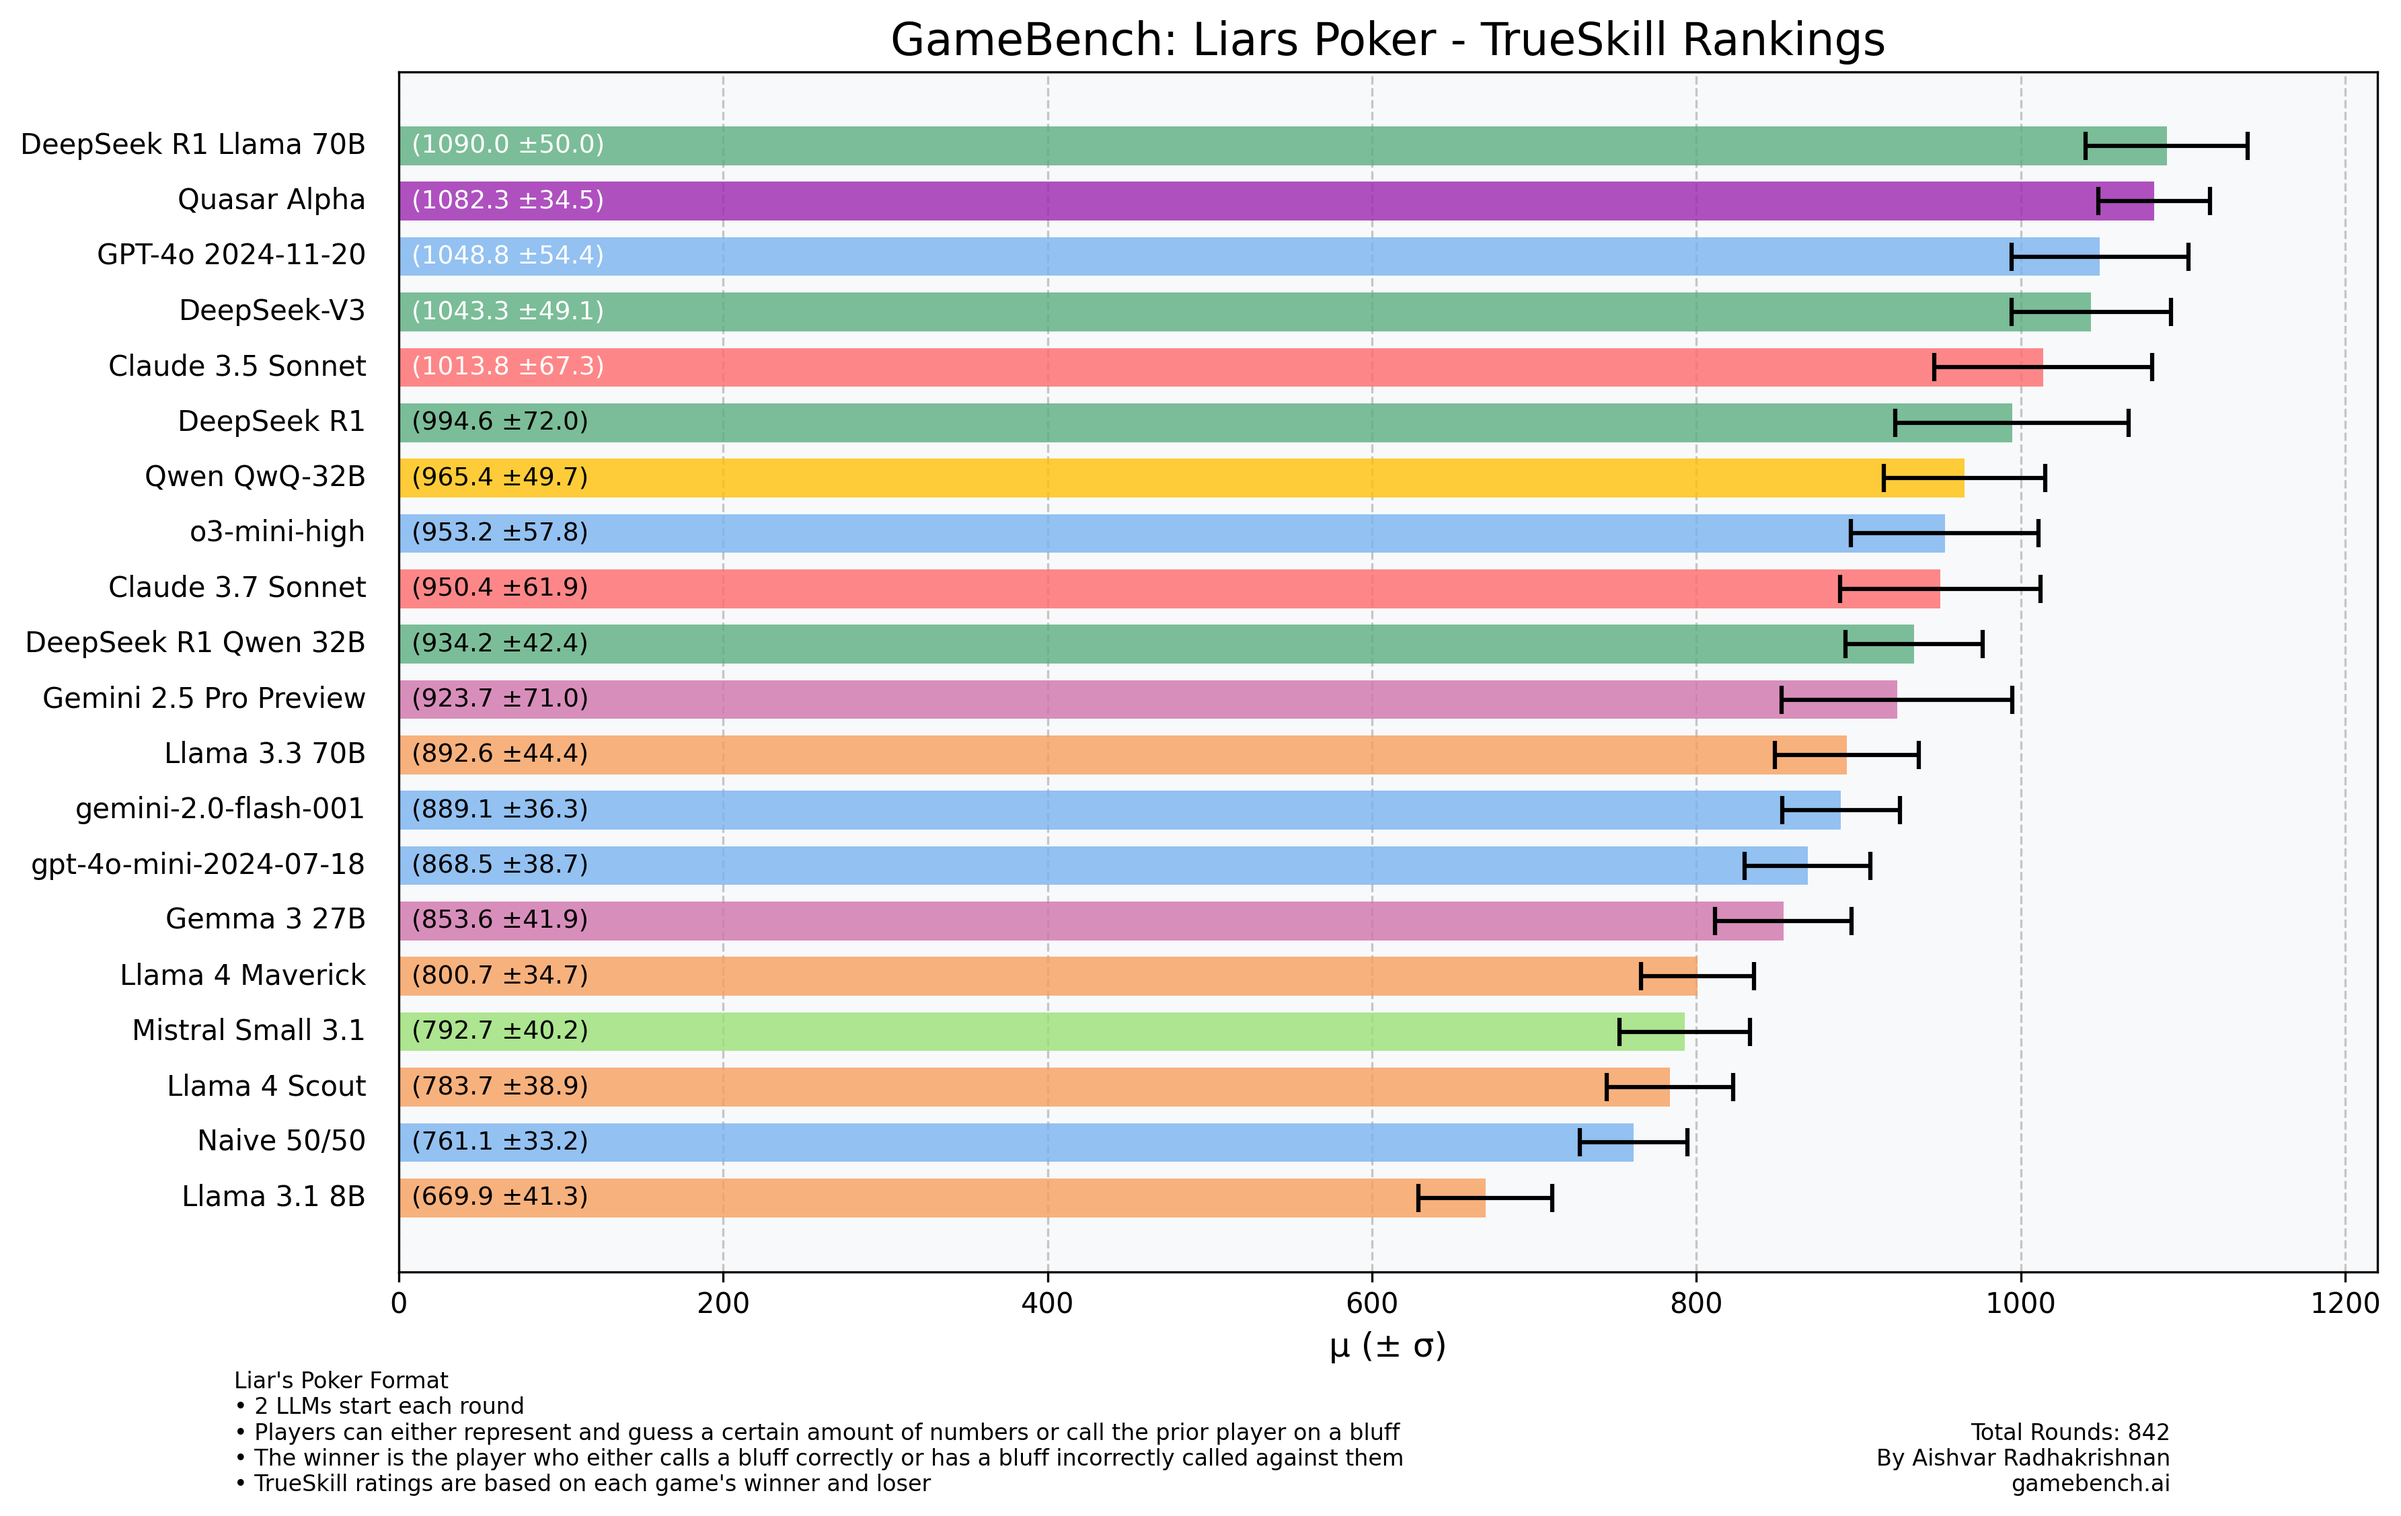
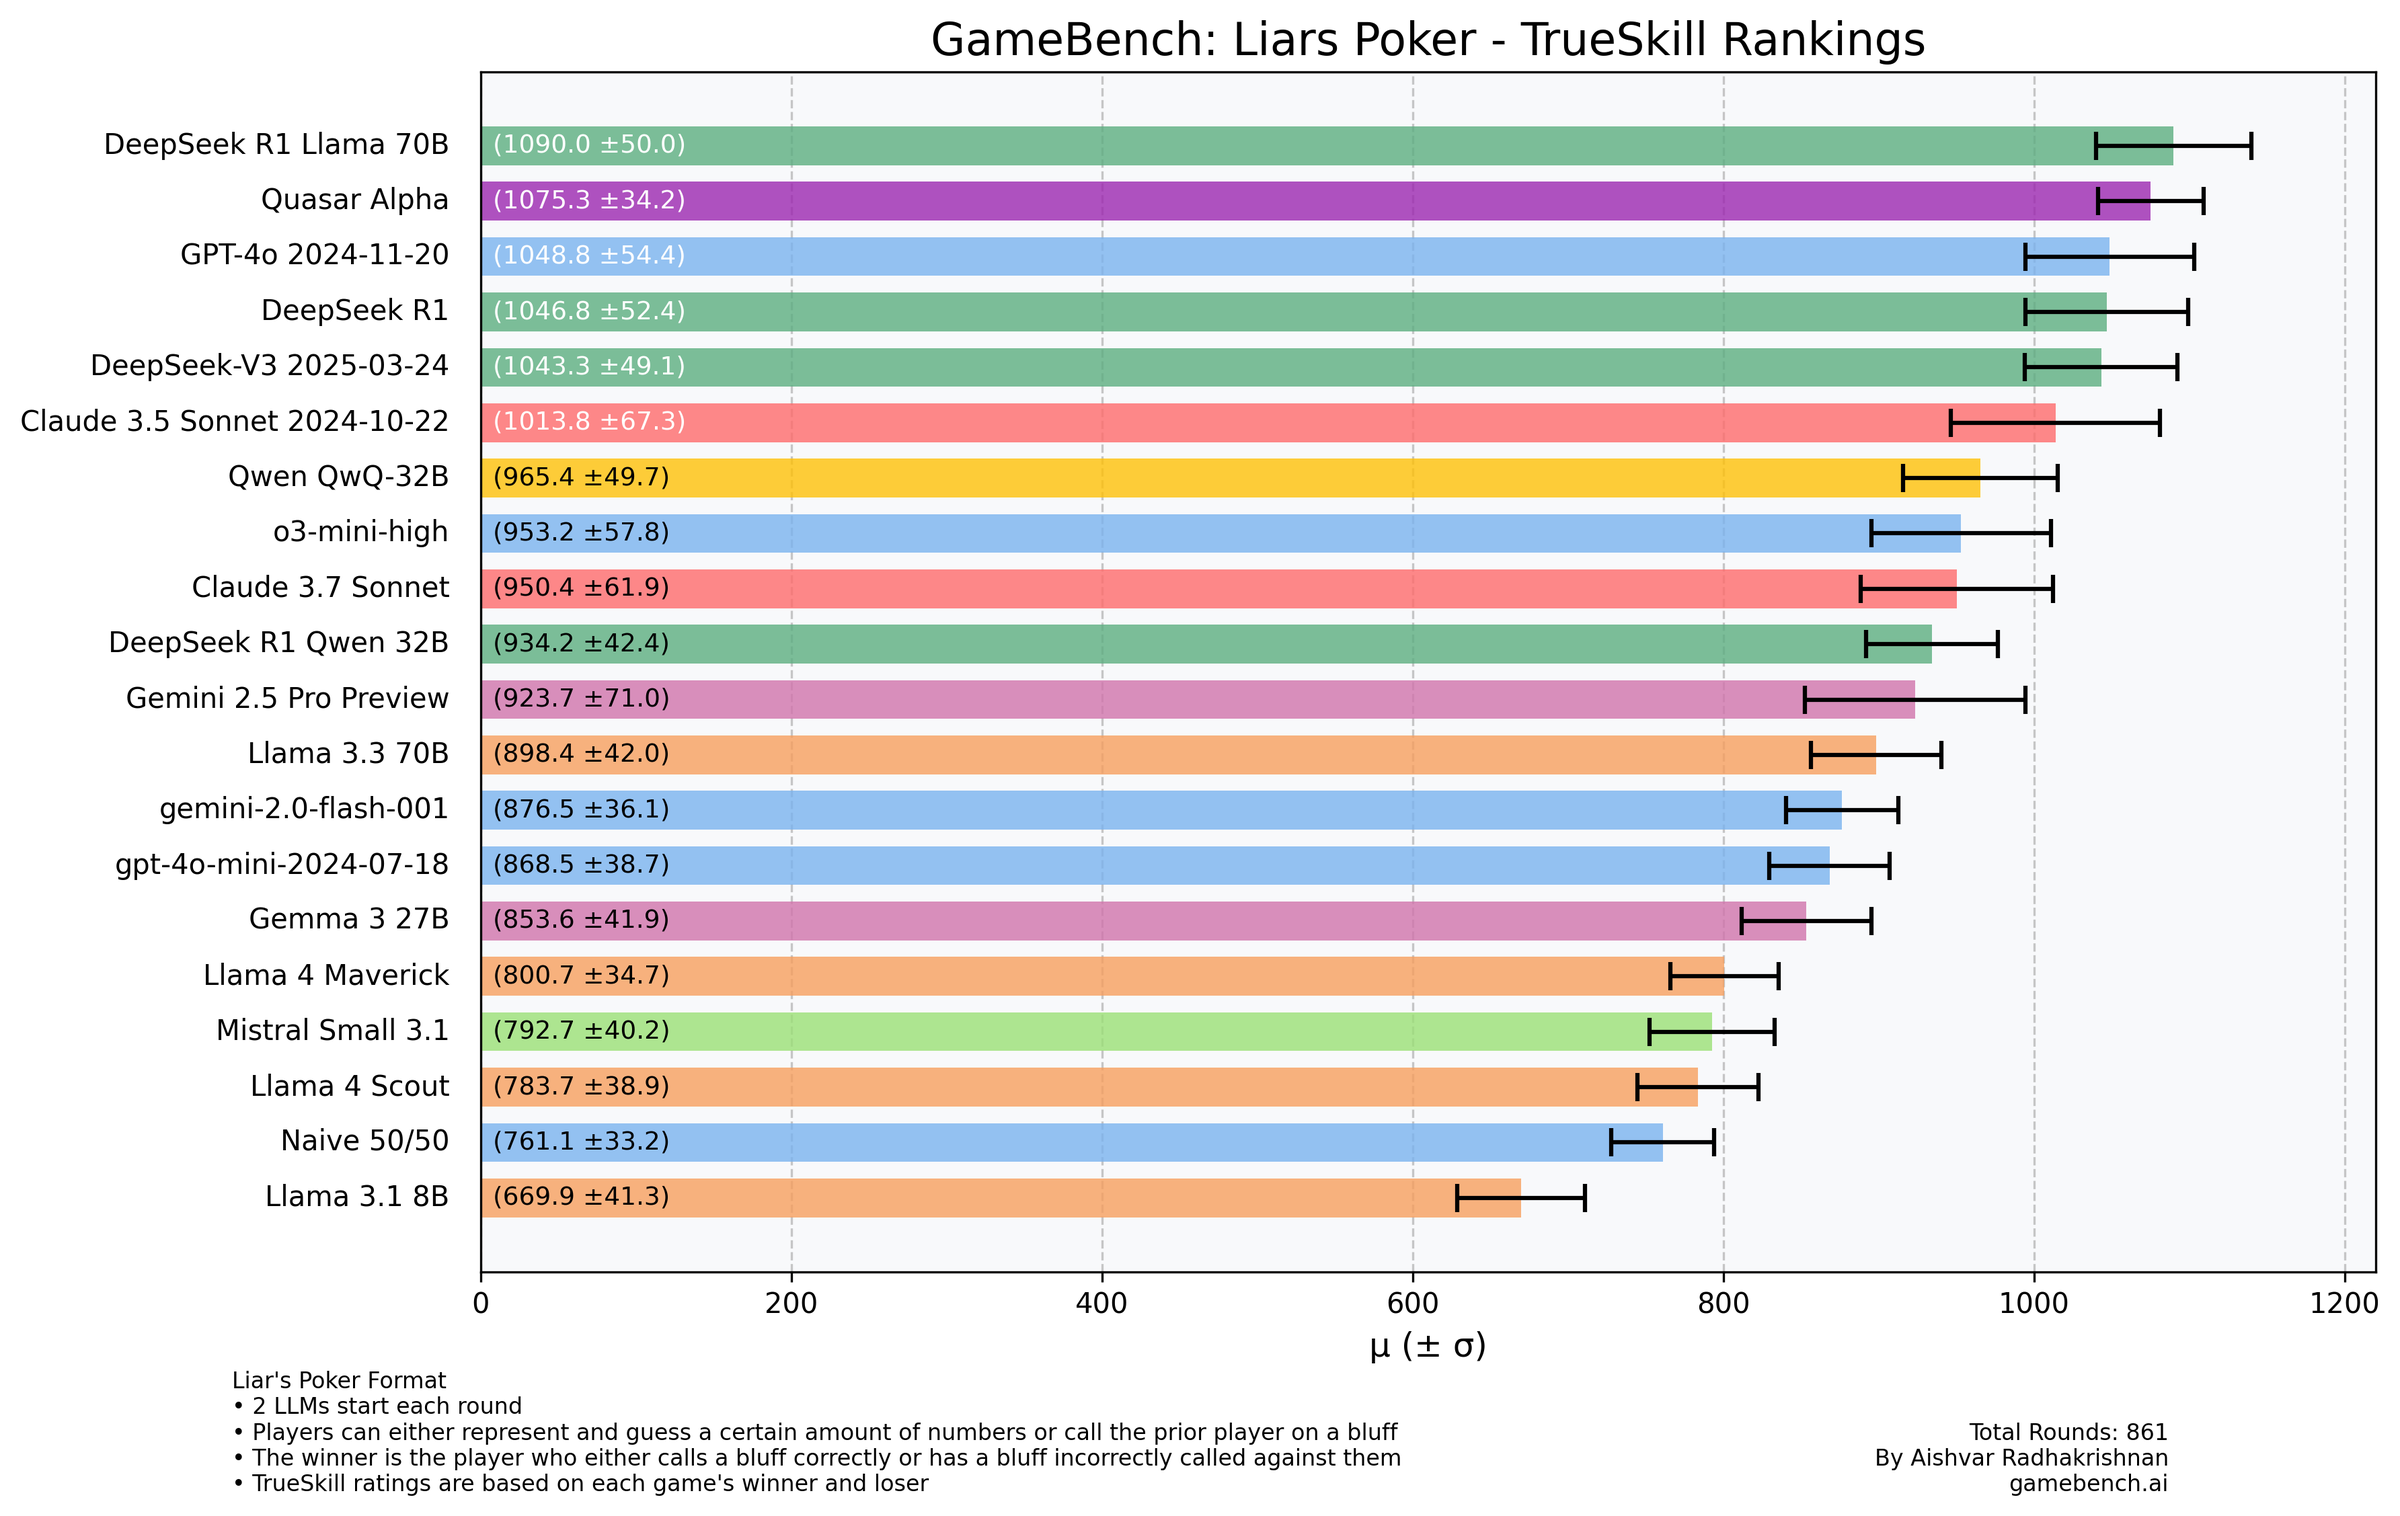
updates

diff --git a/result_visualizer.py b/result_visualizer.py
@@ -24,7 +24,7 @@ for model_full, ratings in data['model_ratings'].items():
         provider, model_part = model_full.split('/', 1)
         
         if 'deepseek-chat-v3' in model_part:
-            model_name = 'DeepSeek-V3'
+            model_name = 'DeepSeek-V3 2025-03-24'
         elif 'deepseek-r1-distill-llama-70b' in model_part:
             model_name = 'DeepSeek R1 Llama 70B'
         elif 'deepseek-r1-distill-qwen-32b' in model_part:
@@ -55,8 +55,8 @@ for model_full, ratings in data['model_ratings'].items():
         # For models without provider prefix
         if 'claude-3-7-sonnet' in model_full:
             model_name = 'Claude 3.7 Sonnet'
-        elif 'claude-3-5-sonnet' in model_full:
-            model_name = 'Claude 3.5 Sonnet'
+        elif 'claude-3-5-sonnet-20241022' in model_full:
+            model_name = 'Claude 3.5 Sonnet 2024-10-22'
         elif 'gpt-4o-2024-11-20' in model_full:
             model_name = 'GPT-4o 2024-11-20'
         elif 'gemini-2.0-flash' in model_full:
